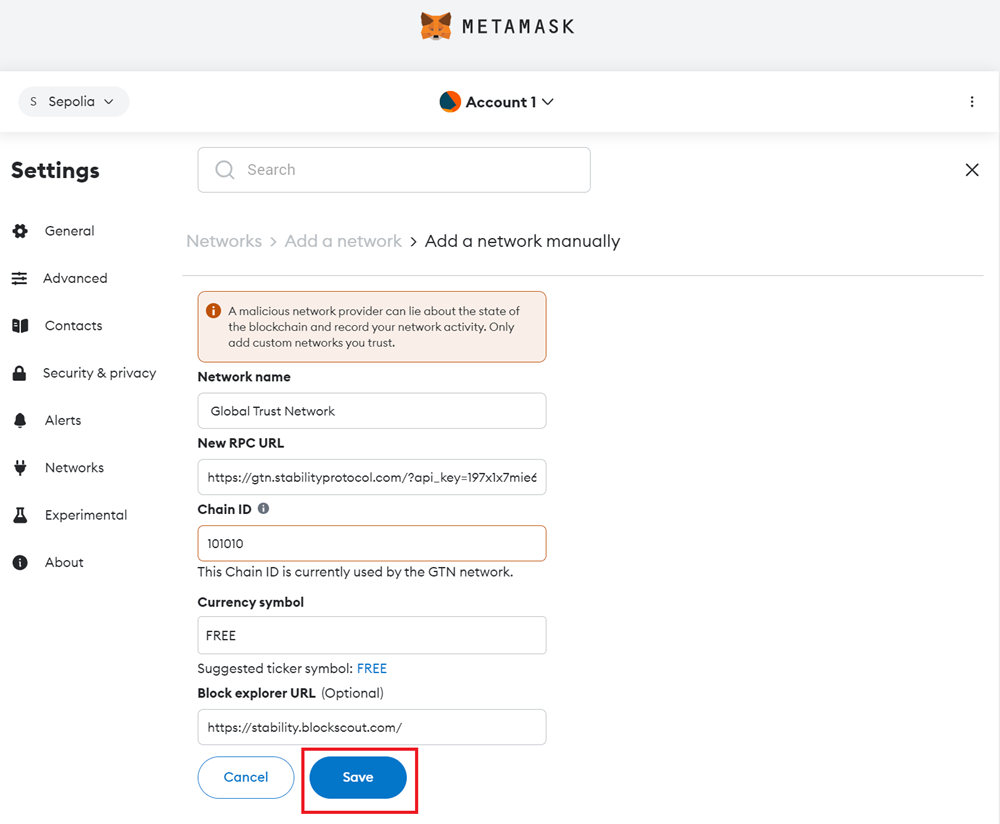
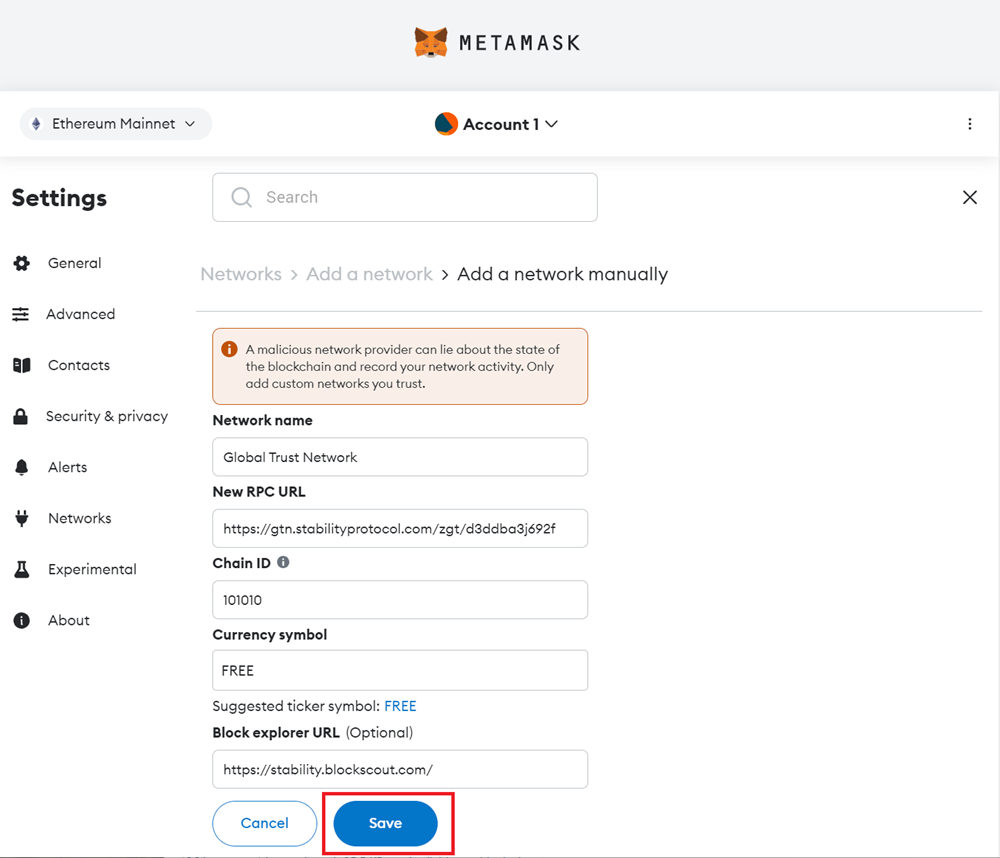
feat: update with new RPC Urls

diff --git a/docs/users/getting_started.md b/docs/users/getting_started.md
@@ -89,7 +89,7 @@ In the event you are unable to add your wallet automatically via clicking the Me
 | **Property**               | **Global Trust Network**                                       | **Stability Testnet**                                               |
 |----------------------------|-----------------------------------------------------------------|----------------------------------------------------------------------|
 | Network Name               | Global Trust Network                                           | Stability Test Net                                                   |
-| New RPC URL                | `https://gtn.stabilityprotocol.com/?api_key=YOUR_API_KEY`      | `https://free.testnet.stabilityprotocol.com/?api_key=YOUR_API_KEY` |
+| New RPC URL                | `https://gtn.stabilityprotocol.com/zgt/YOUR_API_KEY`          | `https://free.testnet.stabilityprotocol.com/zgt/YOUR_API_KEY` |
 | Chain ID                   | 101010                                                          | 20180427                                                             |
 | Currency Symbol            | FREE                                                            | FREE                                                                 |
 | Block Explorer URL         | `https://stability.blockscout.com/`                             | `https://stability-testnet.blockscout.com/`                          |

diff --git a/docs/developers/getting_started.md b/docs/developers/getting_started.md
@@ -88,7 +88,7 @@ In the event you are unable to add your wallet automatically via clicking the Me
 | **Property**               | **Global Trust Network**                                       | **Stability Testnet**                                               |
 |----------------------------|-----------------------------------------------------------------|----------------------------------------------------------------------|
 | Network Name               | Global Trust Network                                           | Stability Test Net                                                   |
-| New RPC URL                | `https://gtn.stabilityprotocol.com/?api_key=YOUR_API_KEY`      | `https://free.testnet.stabilityprotocol.com/?api_key=YOUR_API_KEY` |
+| New RPC URL                | `https://gtn.stabilityprotocol.com/zgt/YOUR_API_KEY`      | `https://free.testnet.stabilityprotocol.com/zgt/YOUR_API_KEY` |
 | Chain ID                   | 101010                                                          | 20180427                                                             |
 | Currency Symbol            | FREE                                                            | FREE                                                                 |
 | Block Explorer URL         | `https://stability.blockscout.com/`                             | `https://stability-testnet.blockscout.com/`                          |
